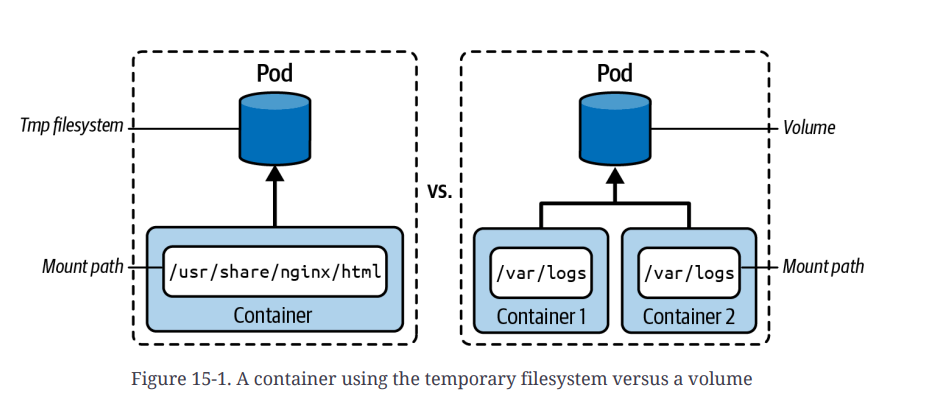
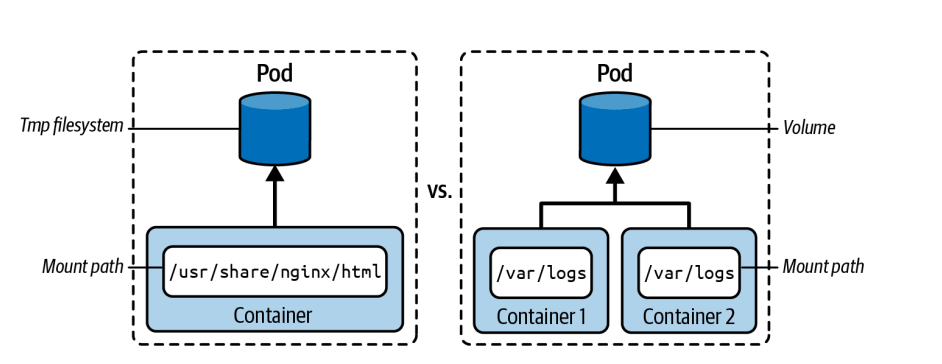
adding dep chapter

diff --git a/08-Volumes.md b/08-Volumes.md
@@ -12,7 +12,7 @@ Un **volume** est un répertoire partagé :
 * qui peut persister selon le type
 
 <p align="center">
-  <img src="vol.png" alt="kube" width="600"/>
+  <img src="vol.png" alt="kube" width="700"/>
 </p>
 
 #### Objectifs des volumes
